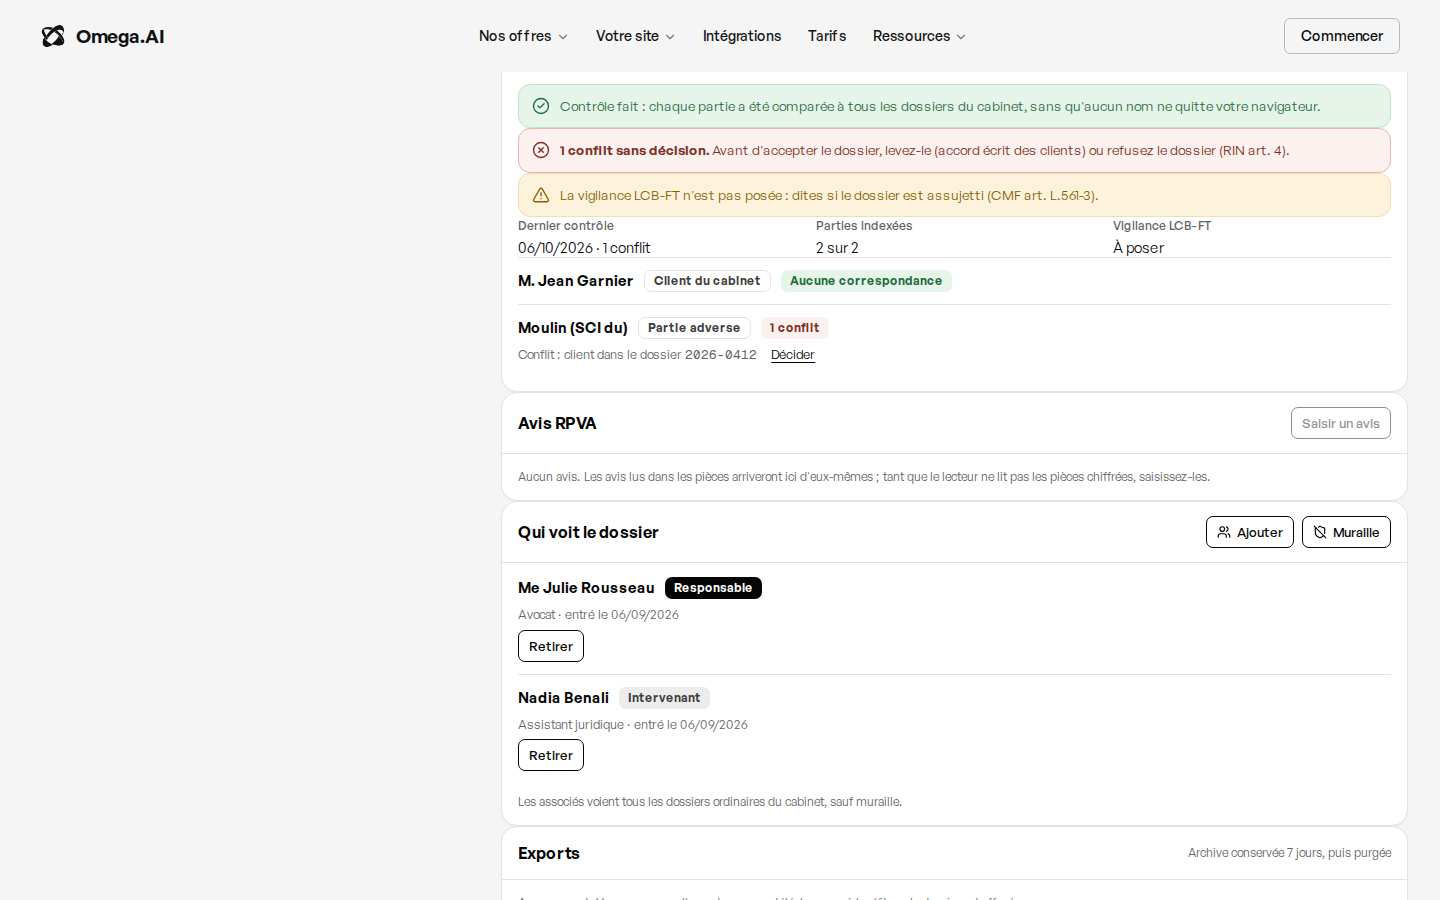
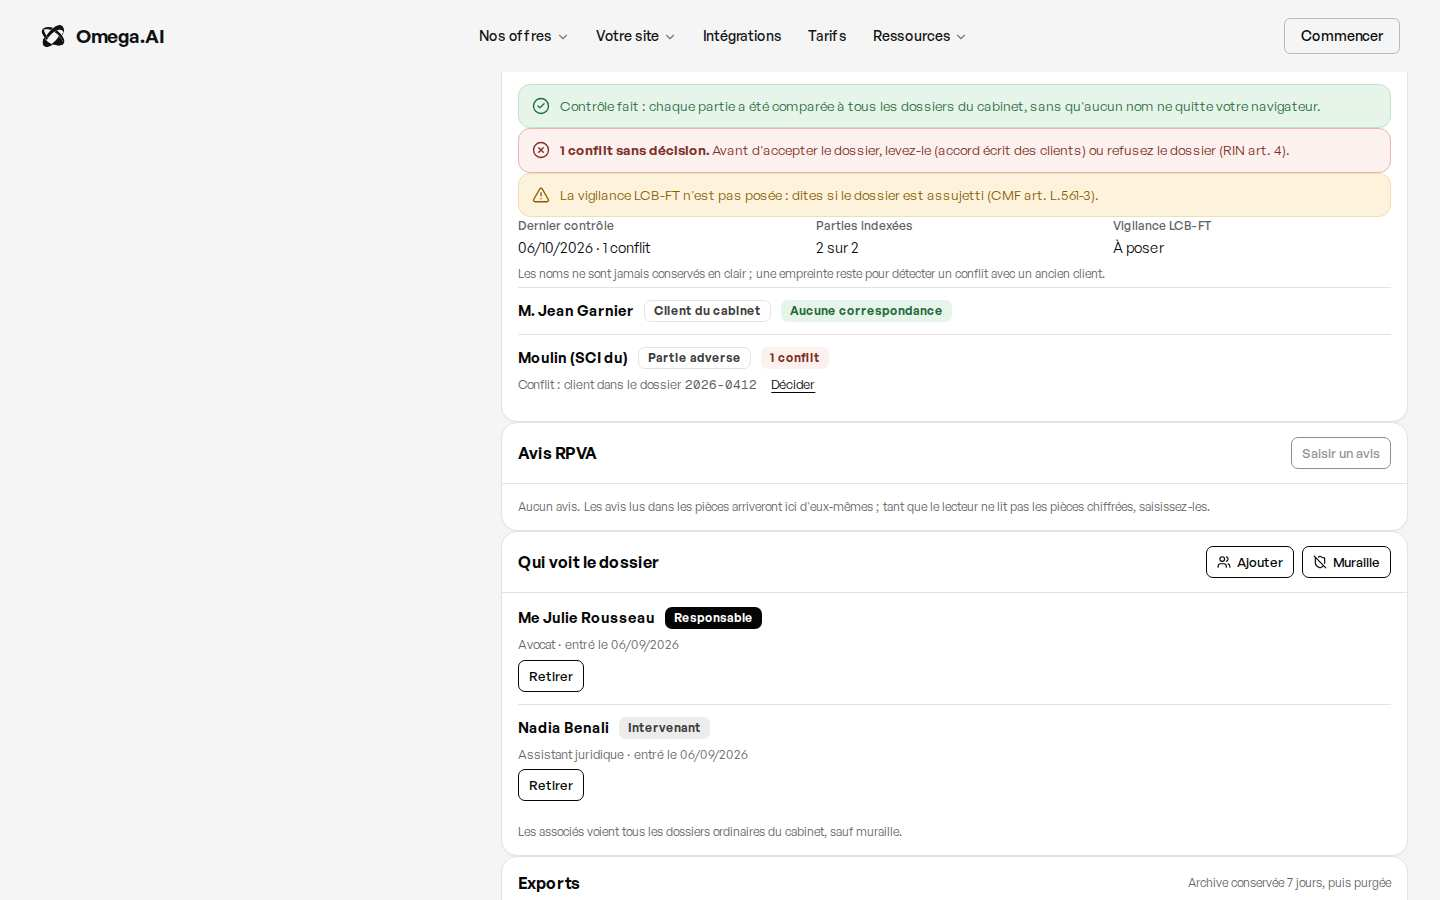
Tamila Conformité : la notice de conservation (décision de Teo)
« Les noms ne sont jamais conservés en clair ; une empreinte reste pour
détecter un conflit avec un ancien client. » Recette 90/90.

Claude-Session: https://claude.ai/code/session_01ACKfUXKSgnD521nunHBY1w

diff --git a/components/espace/tamila/ConformiteTamila.tsx b/components/espace/tamila/ConformiteTamila.tsx
@@ -269,6 +269,8 @@ export default function ConformiteTamila({ dossier: d, source, clientId, parties
               <Def etiquette="Vigilance LCB-FT">{!v ? "À poser" : !v.assujetti ? "Non assujetti" : `${ACTIVITES[v.activite as ActiviteAssujettie] ?? "Assujetti"}${v.risque ? ` · risque ${RISQUES[v.risque].toLowerCase()}` : ""}`}</Def>
             </dl>
 
+            <p className="esp-kpi-sous tam-notice">Les noms ne sont jamais conservés en clair ; une empreinte reste pour détecter un conflit avec un ancien client.</p>
+
             {resultats ? resultats.map((r) => (
               <div key={r.controle.controle} className="tam-ligne">
                 <div className="tam-ligne-haut">

diff --git a/components/espace/tamila/tamila.css b/components/espace/tamila/tamila.css
@@ -185,3 +185,8 @@
   background: #f6f6f4;
   border: 1px solid var(--r-filet);
 }
+
+/* la notice de conservation de la carte des conflits (décision de Teo, 06/10) */
+.esp .tam-notice {
+  margin: 8px 0 4px;
+}

diff --git a/omega/NOTES-B4.md b/omega/NOTES-B4.md
@@ -396,7 +396,9 @@ pour qu'il serve CHAQUE JOUR et qu'on le paie, par ordre d'importance :
   conflit » interdit quand un conflit est trouvé), motif en code ; vigilance LCB-FT (activité assujettie,
   identification du client et du bénéficiaire effectif, risque, revue annuelle) ; résumé `tamila_conformite`.
   Empreintes et contrôles conservés après l'effacement du dossier (registre des conflits) : **à confirmer par
-  Teo** (sinon une ligne de `private.tables_objets`).
+  Teo** (sinon une ligne de `private.tables_objets`). **Décision de Teo (06/10) : on les garde** ; la carte le dit en
+  une ligne (« les noms ne sont jamais conservés en clair ; une empreinte reste pour détecter un conflit avec un
+  ancien client »).
 - **Ouvrier** (2868bcb) : tamila-coffre `nouvelle_cle_index` (gérant) et `cle_index` (personne du cabinet), données
   associées « index:<client> ». 20 tests Deno.
 - **Écran** : `components/espace/tamila/index.ts` (normalisation : accents, formes sociales, civilités, mots vides,
@@ -404,7 +406,7 @@ pour qu'il serve CHAQUE JOUR et qu'on le paie, par ordre d'importance :
   et vigilance » (`ConformiteTamila.tsx`, après les honoraires) : création de la clé d'index par le gérant,
   indexation et contrôle des parties du dossier en un geste, résultats nommés (référence en clair du dossier si
   on la connaît), décision, vigilance. Exemple : 2026-0430 « Garnier c/ SCI du Moulin » montre un conflit avec
-  2026-0412 (la SCI y est cliente). Recette cinq largeurs 89/89 (10 sur les conflits et la vigilance), axe-core
+  2026-0412 (la SCI y est cliente). Recette cinq largeurs 90/90 (11 sur les conflits et la vigilance), axe-core
   0 écart sur le dialogue de vigilance. **Pas rejoué en base réelle.**
 - **Limites** : un nom mal orthographié n'est pas trouvé (égalité stricte après normalisation, pas de
   ressemblance : un index aveugle ne permet pas la recherche floue sans affaiblir l'aveuglement) ; la clé d'index
